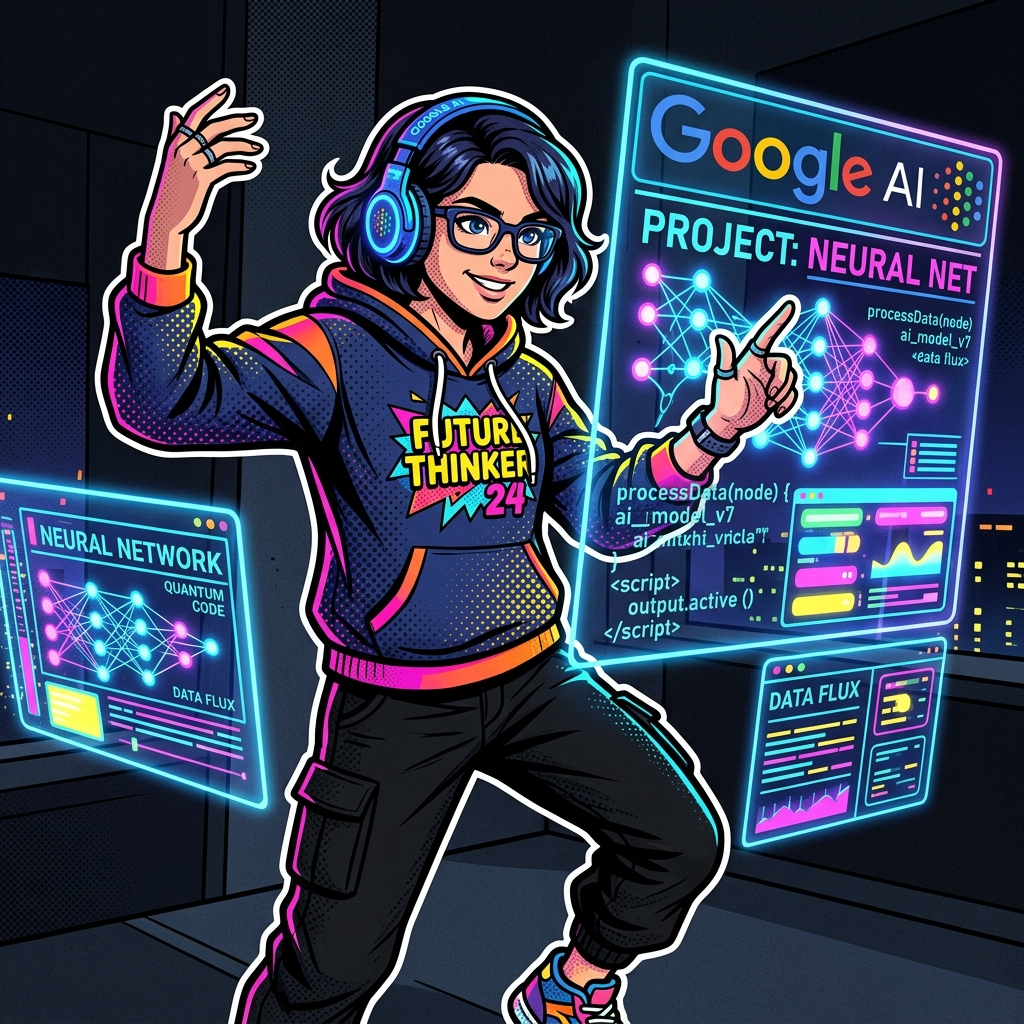
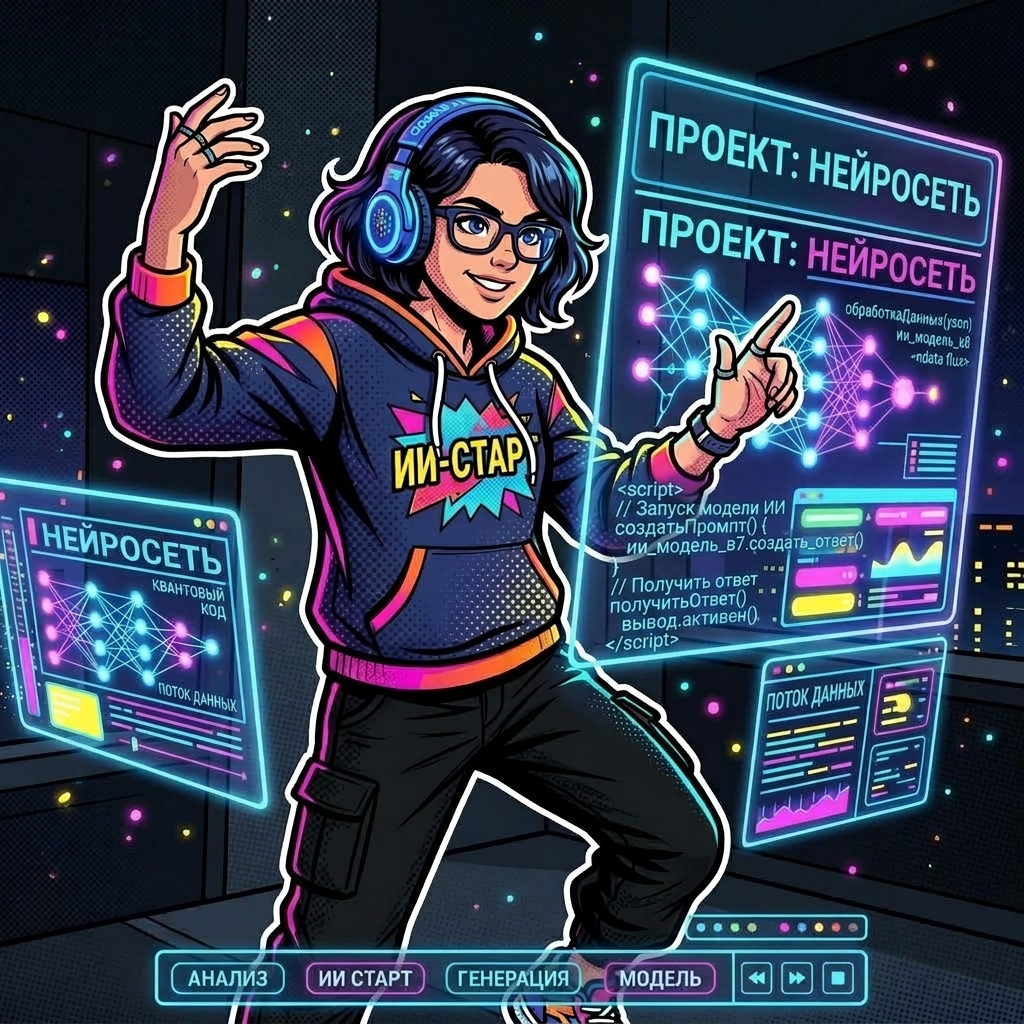
feat(ai-start): replace all images and chips with pure Russian text

diff --git a/education/ai-start/index.html b/education/ai-start/index.html
@@ -1872,7 +1872,7 @@
 
         <div class="hero-visual-frame">
           <div class="pop-art-art-card">
-            <div class="floating-comic-chip chip-top">★ SUPERPOWER UNLOCKED</div>
+            <div class="floating-comic-chip chip-top">★ СУПЕРСИЛА АКТИВИРОВАНА</div>
             <img src="hero_teen_ai.jpg" alt="Подросток управляет искусственным интеллектом Google AI" class="hero-art-img" data-tip="Твой персональный старт в&nbsp;мире ИИ!">
             <div class="floating-comic-chip chip-bottom">100% ПРАКТИКА И&nbsp;ДЕЙСТВИЕ</div>
           </div>
